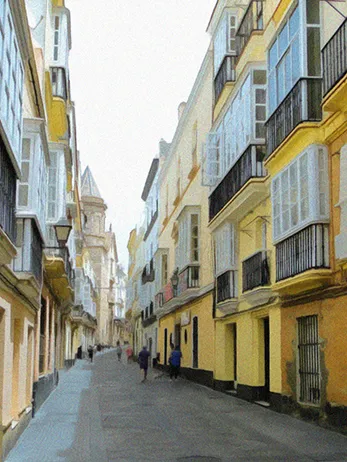
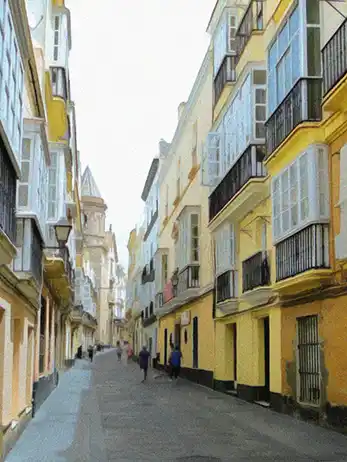
mejoras habla

diff --git a/src/habla.html b/src/habla.html
@@ -40,7 +40,7 @@
     </header>
     <main>
         <article>
-            <section>
+            <section class="hablar">
                 <div class="portada">
                     <picture>
                         <source srcset="
@@ -125,7 +125,7 @@
                         50vw" type="image/jpg">
 
                         <img src="assets/images/habla-3-768w.jpg" loading="lazy"
-                            alt="Calle del centro de Cádiz y gente paseando.">
+                            alt="Calle del centro de Cádiz y gente paseando." width="768" height="1023">
                     </picture>
                 </div>
                 <p class="aparecer">
@@ -169,7 +169,7 @@
                         50vw" type="image/jpg">
 
                         <img src="assets/images/habla-1-768w.jpg" loading="lazy"
-                            alt="Una de las torres de la catedral de Cádiz.">
+                            alt="Una de las torres de la catedral de Cádiz." width="768" height="1023">
                     </picture>
                 </div>
             </section>

diff --git a/src/styles.css b/src/styles.css
@@ -508,6 +508,17 @@ dt {
     padding: 1.5rem;
 }
 
+.hablar img {
+    width: 100%;
+    object-fit: cover;
+}
+
+.hablar picture {
+    display: block;
+    aspect-ratio: 0.75;
+    overflow: hidden;
+}
+
 @media screen and (max-width: 768px) {
 
     .detalle .habla li {
